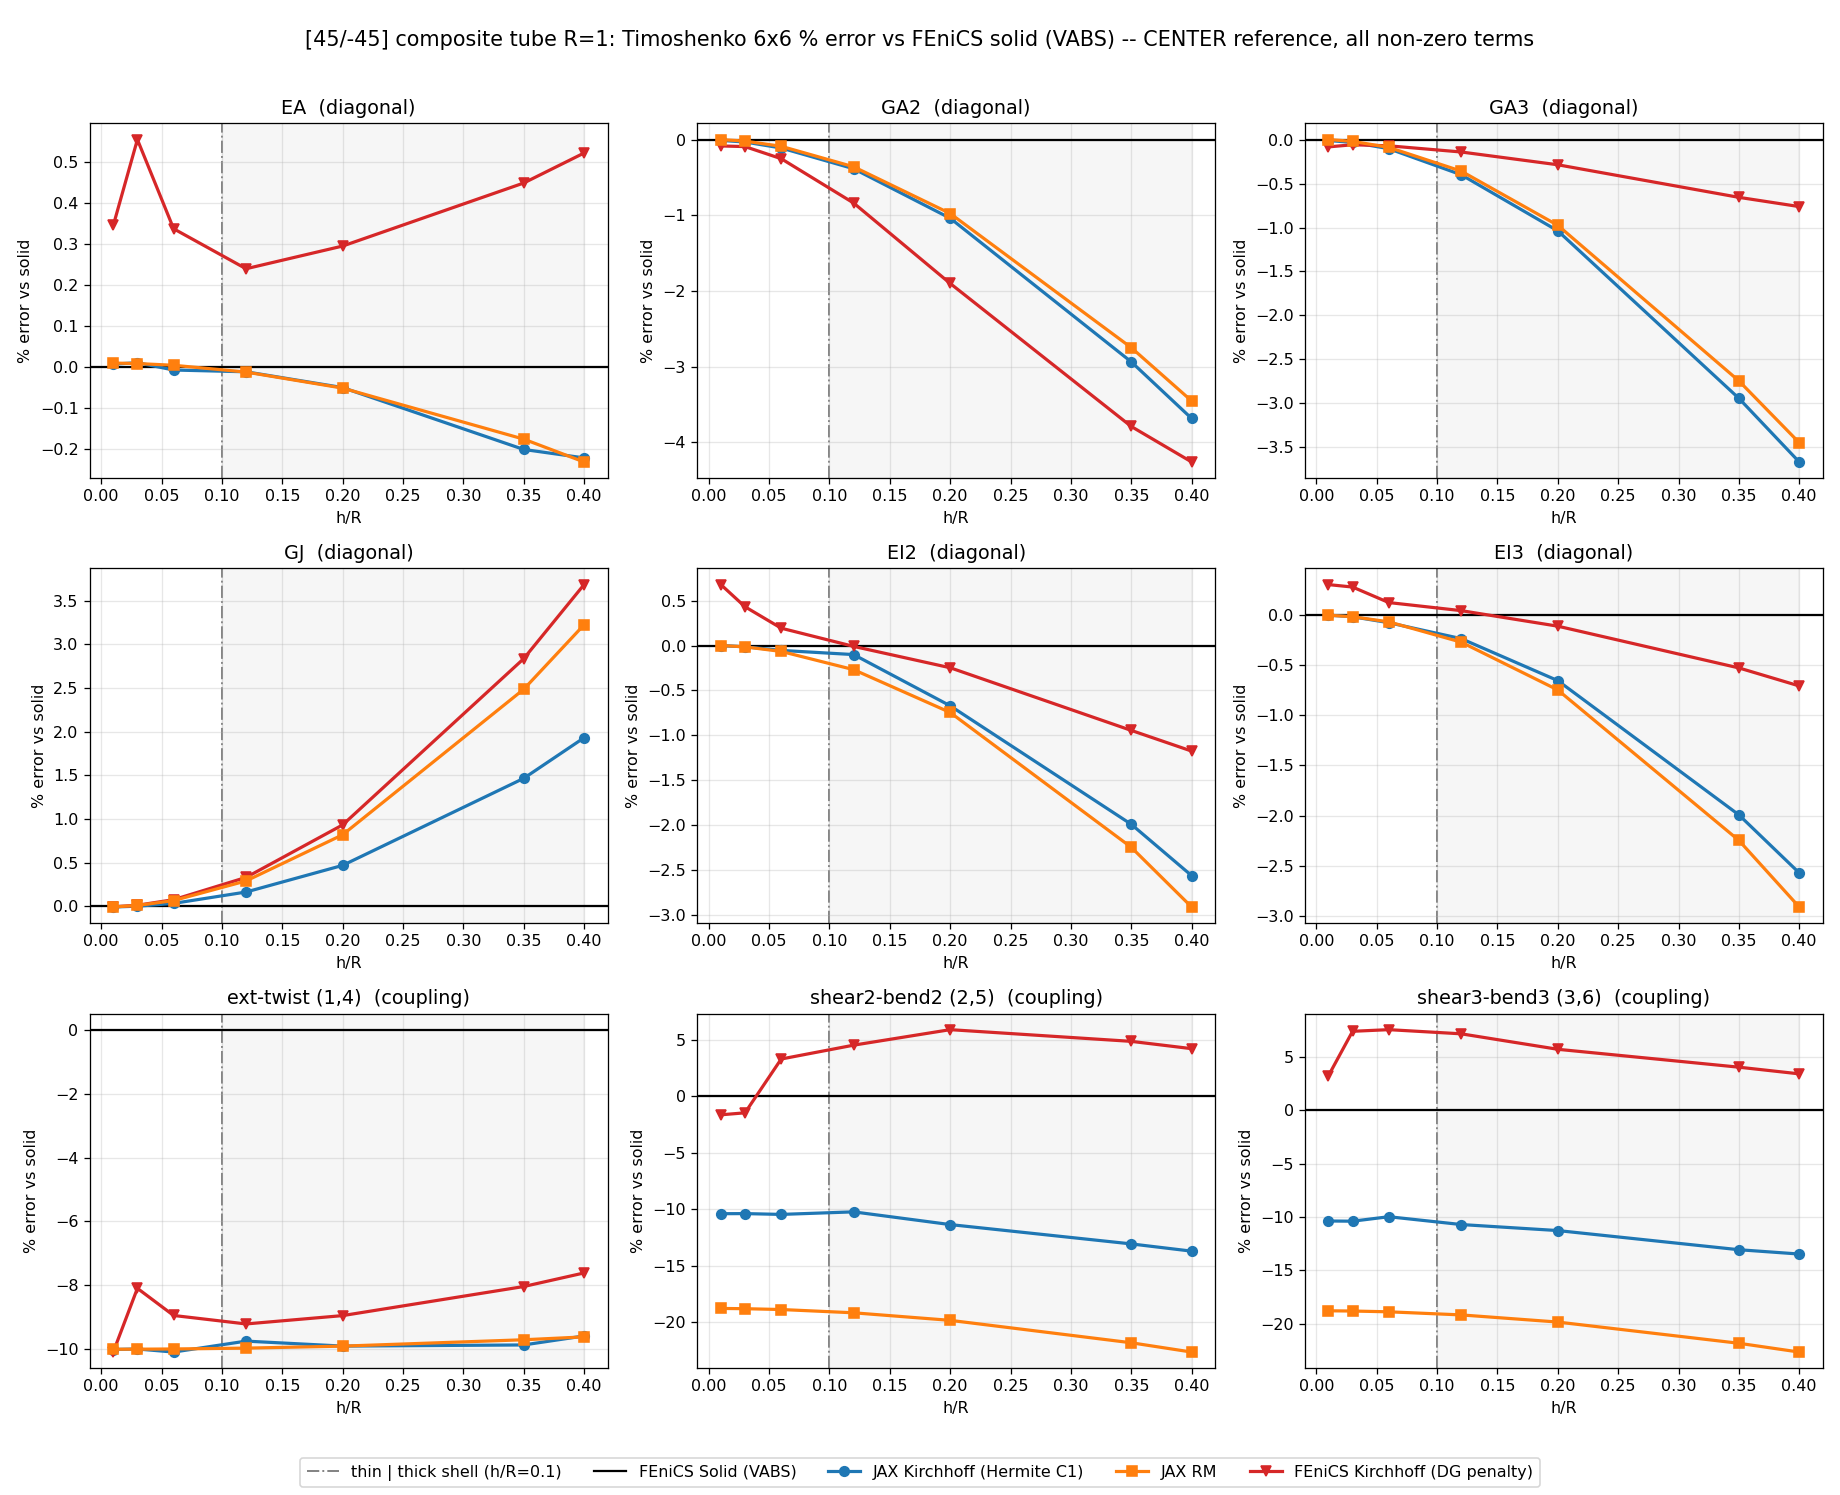
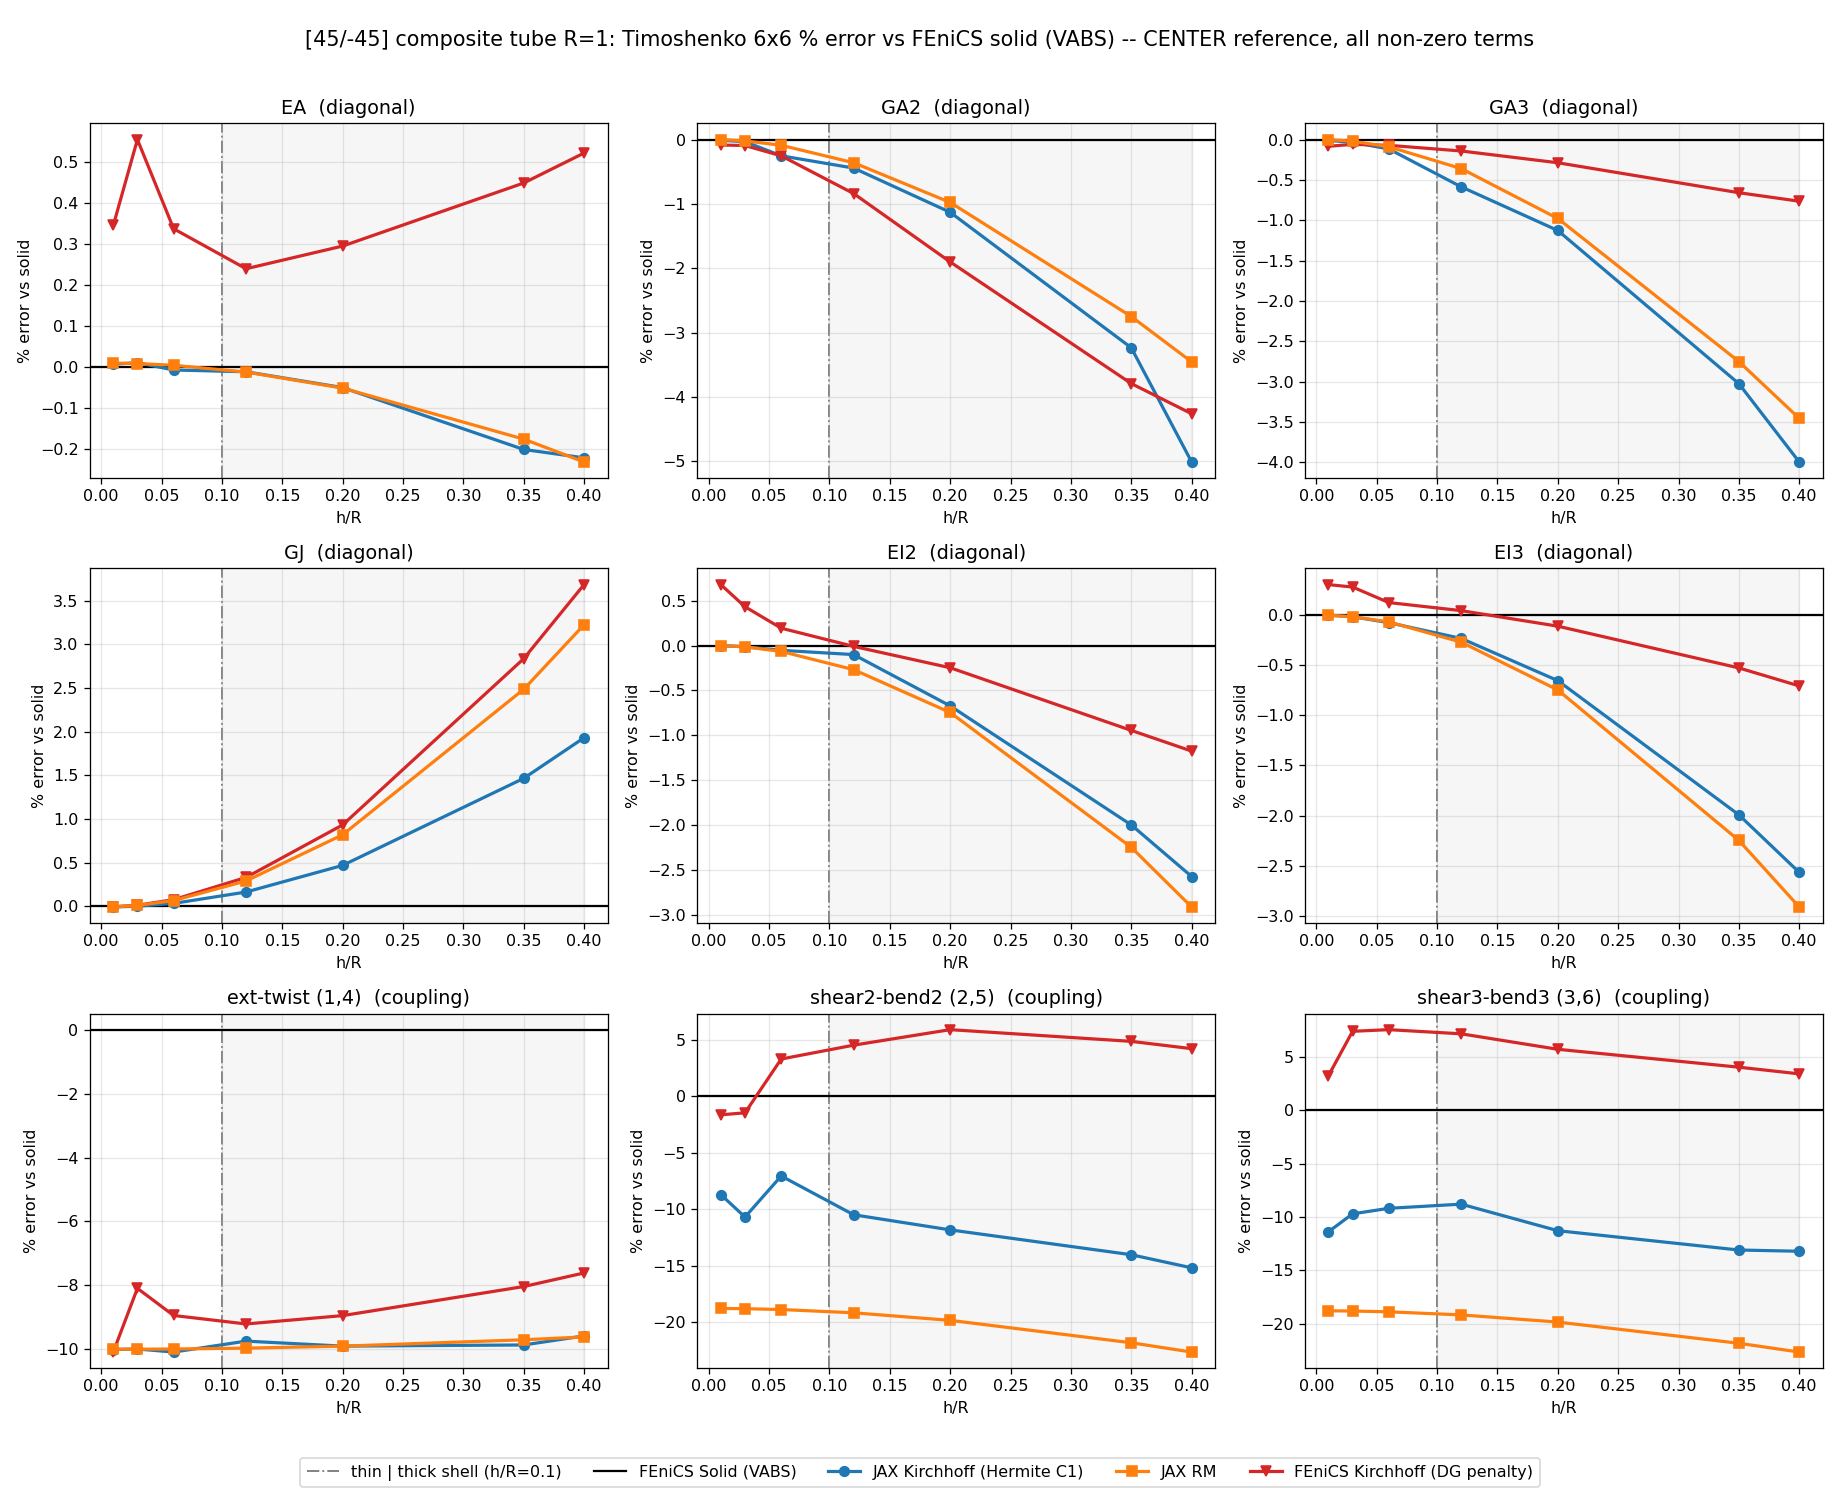
aniso tube: add Kirchhoff eps22 hoop channel (improves thin-wall shear-bend toward solid; refresh jax.txt + both plots + README note)

diff --git a/examples/anisotropic_tube/README.md b/examples/anisotropic_tube/README.md
@@ -33,14 +33,15 @@ FEniCS-spike diagnostic (below).
   | term | JAX Kirchhoff | JAX RM | FEniCS Kirchhoff |
   |---|---|---|---|
   | ext-twist (1,4) | **−10 %** (flat) | **−10 %** (flat) | **−9 %** |
-  | shear-bend (2,5)/(3,6) | −10 → −14 % | −19 → −23 % | ~+3 → +6 % |
+  | shear-bend (2,5)/(3,6) | −7 → −15 % (w/ eps22) | −19 → −23 % | ~+3 → +6 % |
   - The [±45] coupling comes from the through-thickness B16/B26 (balanced ⇒ A16=0) and is
     transverse-shear-sensitive via the **wall curvature** k22. All three shells now
     **bracket the 3D solid** on every coupling (none is the old flat −70 % / +66 % outlier).
 
 ## JAX thin-walled (TW) corrections applied
-The closed [±45] tube exposed three sign/curvature bugs in the JAX shell models; all
-fixed in `bagla0/OpenSG-TW` (branch `msg-reissner-mindlin`) and reflected here:
+The closed [±45] tube exposed three sign/curvature bugs (plus one shear-warping
+enhancement, #4) in the JAX shell models; all in `bagla0/OpenSG-TW` (branch
+`msg-reissner-mindlin`) and reflected here:
 1. **Wall curvature for 2-node closed meshes** (`msg_mesh.py`): `mesh_curvature` returned
    0 for flat 2-node tube elements, dropping the k22 = −1/R channel that carries the
    [±45] coupling. Now recovered from consecutive-corner turning (`_curvature_from_corners`).
@@ -53,6 +54,12 @@ fixed in `bagla0/OpenSG-TW` (branch `msg-reissner-mindlin`) and reflected here:
    transverse-shear-bending coupling, over-counting shear-bend **+66 %**; it was invisible
    in the EB diagonal (enters squared) and in open airfoils (st12/st15 unchanged). Fixed →
    shear-bend −18.8 %, full diagonal + ext-twist preserved.
+4. **Kirchhoff eps22 hoop channel** (`msg_hermite.py` `eps_l`): the shear-warping operator
+   was missing the hoop strain `eps22 = t.dw` (only eps11/2eps12/kappa12 were populated).
+   Adding it pulls the JAX-Kirchhoff shear-bend toward the solid at thin walls (~-10.5% to
+   -7% at h/R=0.06); st12/st15/iso unchanged, diagonal/GA preserved. It makes the coupling
+   curve mildly noisy/asymmetric across h/R -- the bulk of the JAX-vs-FEniCS coupling gap is
+   the *discretization* (Hermite-C1 vs CG2+penalty/Eq.100 V1s), not the operator.
 
 ## OML vs center reference (not a bug)
 The OML curves run high (e.g. EA +20 %, GJ −40 % at h/R=0.4) but this is the **geometric
